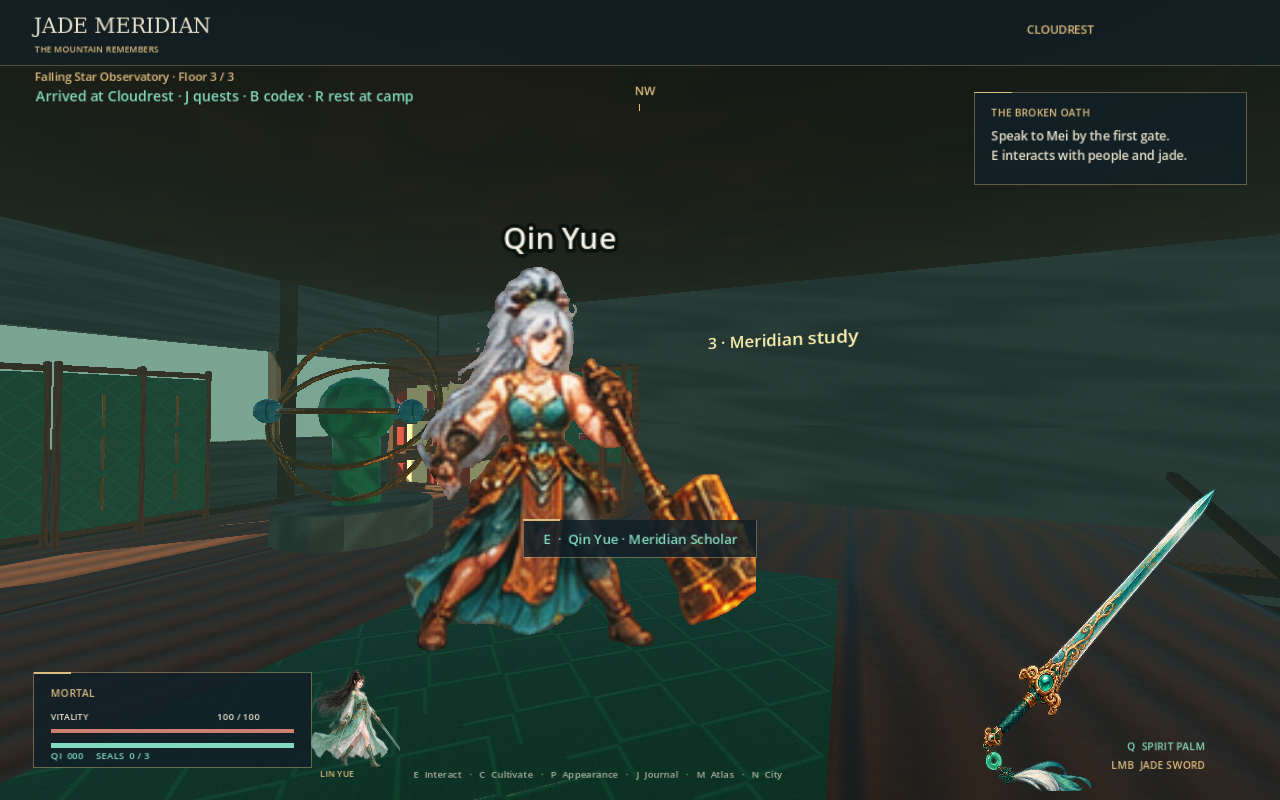
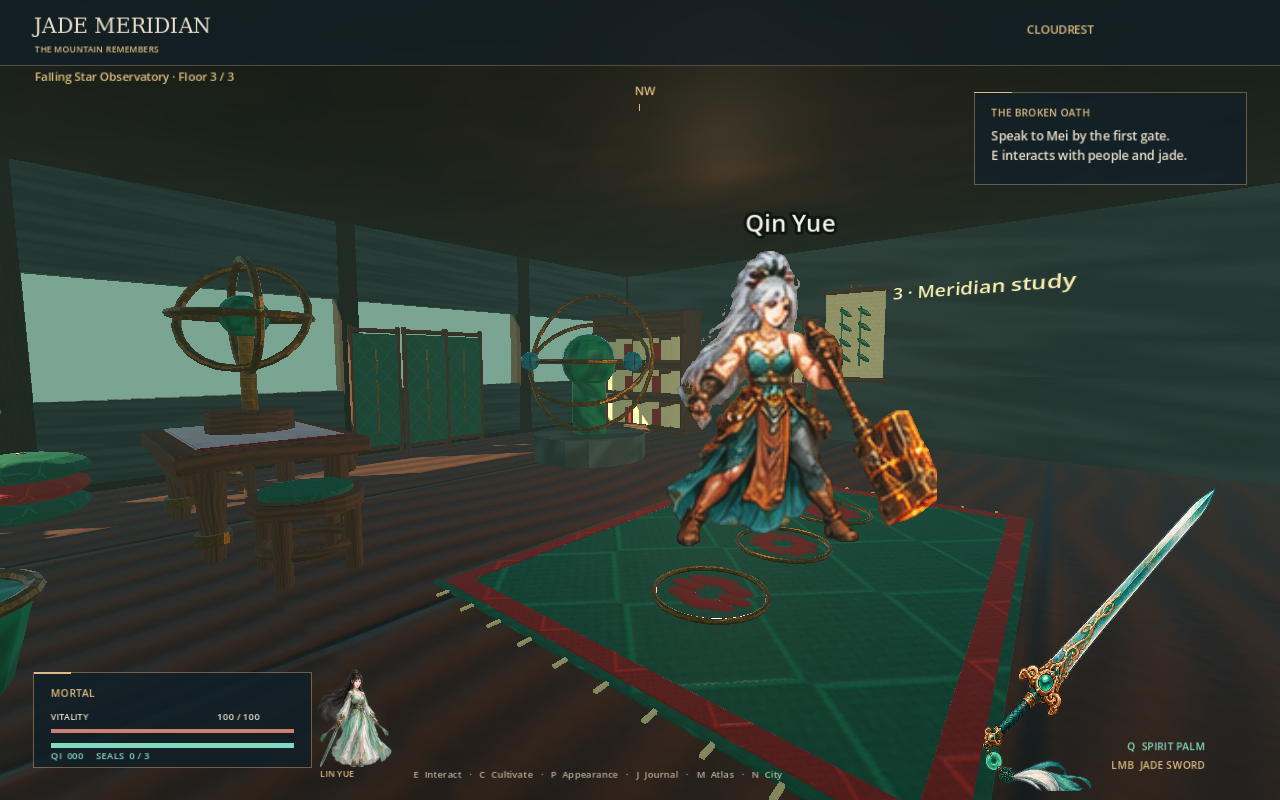
Document textured interiors and capture furnished city rooms

diff --git a/README.md b/README.md
@@ -2,7 +2,7 @@
 
 A first-person 2.5D xianxia game in **Godot 4.7.2 stable**, with a female cultivator, animated 2D characters, textured 3D surroundings, cultivation, and a branching story. The expanded campaign has **100 NPCs, 100 monster species, 1,200 linked quest chapters, and 12 travel regions**.
 
-Cloudrest now also has **12 enterable city buildings, three furnished floors per building, and 40 additional named residents**. Walk south through the valley camp gate to explore Lantern Avenue. Press **N** for the searchable city directory and entrance markers.
+Cloudrest now also has **12 enterable city buildings, three furnished floors per building, and 40 additional named residents**. The interiors contain **653 placements of 40 new textured Blender GLBs**. Walk south through the valley camp gate to explore Lantern Avenue. Press **N** for the searchable city directory and entrance markers.
 
 ![Cloudrest's walkable city district](docs/screenshots/city.png)
 
@@ -62,11 +62,14 @@ Regions share the modular valley layout, with different inhabitants, lighting pa
 
 ## Cloudrest city
 
-The city contains an inn, clinic, teahouse, forge, tailor, archive, talisman hall, guildhouse, observatory, bathhouse, bell house, and courthouse. All twelve buildings have open ground-floor entrances and two physical staircases connecting three floors. Interiors include beds, shelves, worktables, books, forge equipment, baths, instruments, and bells. A resident lives on every floor, with four more people along the avenue.
+The city contains an inn, clinic, teahouse, forge, tailor, archive, talisman hall, guildhouse, observatory, bathhouse, bell house, and courthouse. All twelve buildings have open ground-floor entrances and two physical staircases connecting three floors. Each floor has at least **16 textured GLB props**: carved furniture, brocade beds, medicine drawers, a working-room loom, weapon racks, scrolls, bath basins, instruments, bells, and offerings. Rugs, hanging lanterns, bamboo scrolls, cushions, and bonsai finish the rooms. A resident lives on every floor, with four more people along the avenue.
+
+The new models were generated with **headless Blender 4.3.2** in the current environment. Twelve material families use **36 original 256×256 albedo, roughness, and normal maps**, embedded in the GLBs; floors and plaster also use those detailed surfaces. Shared scene resources and meshes joined by material limit duplicate assets and draw calls. Furniture collisions leave the entrance, residents, and staircase routes accessible.
 
 Press E near any city resident, then 1 for their authored personal story or 2 for advice or a service. Services include healing, rest, tea, tailoring, cultivation, chapter reading, and travel planning. City hospitality restores resources without granting repeatable qi; camp-rest chapters still require the valley camp. The 40 city residents reuse 40 distinct existing high-resolution character designs. Their local dialogue is separate from the existing 100 campaign authors and their chapter chains.
 
 ![A resident on the observatory's third floor](docs/screenshots/city-upper-floor.png)
+![The furnished bathhouse](docs/screenshots/city-bathhouse.png)
 ![The searchable city directory](docs/screenshots/city-directory.png)
 
 See [the city layout and verification](docs/CITY.md) for all addresses and floor names.
@@ -75,11 +78,14 @@ See [the city layout and verification](docs/CITY.md) for all addresses and floor
 
 | Library | Included | Source |
 | --- | ---: | --- |
-| Textured world models | **1,061 distinct GLBs + 1,061 texture PNGs** | Headless Blender: original 1,024 variants, 36 regional landmarks, and one camp beacon |
+| Textured world and landmark models | **1,061 distinct GLBs + 1,061 texture PNGs** | Headless Blender: original 1,024 variants, 36 regional landmarks, and one camp beacon |
+| Textured city interiors | **40 additional GLBs + 36 PBR texture PNGs** | Headless Blender: 653 placements across 36 floors; twelve shared material families |
 | Animation resources | **2,512 AtlasTexture frames** | Original 1,536, 960 expansion frames, and 16 Lin Ning animation poses |
 | New live characters | **100 NPCs + 100 monsters** | Four authored poses per character; 24 spare character designs also included |
 | Heroine appearances | **16 combinations × 4 new poses** | Dedicated generated atlas, plus four weapon sprites |
 | Audio | **113 WAV clips** | Seven synthesized music/effects, six original voices, 100 new NPC greetings |
+
+The complete model library contains **1,101 distinct GLBs**. Godot's extracted copies of embedded textures are excluded from source-art counts.
 
 The image tool returned **1,254 × 1,254** native sheets. New 8×8 sheets provide roughly **155 × 155** frame regions, twice the original 16×16 frame dimensions. A requested 4,096-pixel sheet was not returned; the source images were not upscaled. Frame resources share source PNGs. The number of frames is not a count of separately generated PNG files. Generic eSpeak NG voices provide spoken greetings, not full narration of every chapter.
 
@@ -92,13 +98,15 @@ python3 -m pip install -r tools/requirements.txt
 bash tools/check.sh
 ```
 
-Validation checks all model geometry/embedded textures, image hashes and source rectangles, audio, narrative word counts, lore uniqueness, and quest links. Godot imports the project, runs the world, checks both endings and save migration, replays all 1,200 chains, visits all twelve regions, walks every city doorway and both staircases, interacts with all 40 city residents, and verifies a packaged PCK includes campaign and city JSON. The audit replays **330 checks**; **327 failed on baseline `4c6493c`**, including repeated manifestations of shared defects. The report does not label these as 327 independent root causes.
+Validation checks all model geometry/embedded textures, image hashes and source rectangles, audio, narrative word counts, lore uniqueness, and quest links. The interior validator also checks every room's prop bounds, ceiling height, and clear approaches. Godot imports all 40 interior models with their PBR maps, runs **526 city checks**, checks both endings and save migration, replays all 1,200 chains, visits all twelve regions, walks every city doorway and both staircases, interacts with all 40 city residents, and verifies a packaged PCK includes the city assets and JSON. The audit replays **330 checks**; **327 failed on baseline `4c6493c`**, including repeated manifestations of shared defects. The report does not label these as 327 independent root causes.
 
 To reproduce generated data and Blender assets:
 
 ```bash
 python3 tools/compile_campaign.py
 blender --background --factory-startup --python tools/generate_landmarks.py
+blender --background --factory-startup --python tools/generate_interiors.py -- --batch all
+python3 tools/validate_interiors.py --expect-count 40
 python3 tools/register_hires.py
 python3 tools/generate_campaign_voices.py  # requires eSpeak NG
 ```

diff --git a/docs/CITY.md b/docs/CITY.md
@@ -26,16 +26,45 @@ A resident occupies every floor. Gate guide Tao Jun, market gardener Min Qiu, fe
 Their short personal accounts are authored in `content/city/cloudrest.json`. City residents reuse 40 distinct existing high-resolution NPC sprite designs with four animated poses each. The expansion adds no new source character artwork or generated animation frames. The campaign's 100 authors and 1,200 chapter chains remain separately available. City rest restores vitality and stamina; it does not advance an objective requiring rest at the valley camp or generate qi rewards.
 
 ![The inn's ground-floor resident](screenshots/city-interior.png)
+![Brocade curtains and a furnished guest room](screenshots/city-bedroom.png)
 ![The observatory's third-floor resident](screenshots/city-upper-floor.png)
 ![A resident's personal account](screenshots/city-dialogue.png)
 
-The district is assembled from timber, plaster, framed windows, raised eaves, lanterns, shop banners, and furnishings, using Godot geometry and existing world textures. Shared meshes and materials keep the modular architecture reproducible. It is a playable city prototype with a regular street plan and themed furnishings; residents stay at their addresses rather than following daily schedules.
+The district's architecture is assembled from timber, plaster, framed windows, raised eaves, lanterns, and shop banners using Godot geometry. Its interiors now use **40 original GLBs generated with headless Blender 4.3.2**, placed **653 times across all 36 floors**. Each floor contains at least **16 models**. The room layouts are authored in `content/city/interiors.json`; `scripts/interiors.gd` caches each imported scene and uses the manifest's model bounds for furniture collision. Meshes are joined by material in Blender and culled at distance in Godot. The city retains a regular street plan, and residents stay at their addresses rather than following daily schedules.
+
+| Library batch | Distinct GLBs | Furnishings |
+| --- | ---: | --- |
+| Common | 8 | Carved tables and stools, canopy bed, bookcase, chest, floor lantern, flower vase, folding screen |
+| Craft | 16 | Tea set, medicine drawers and tray, forge hearth, anvil, weapon rack, loom, silk rolls, scroll rack, writing desk, ink set, talisman board, incense burner, astrolabe, orrery, star chart |
+| Special | 16 | Bath basin, towel rack, bell, offering altar, court bench, petition box, guild map table, supply crates, hanging lantern, bamboo scroll, patterned rug, cushions, bonsai, crystal array, drum, drying herbs |
+
+Twelve material families use **36 generated 256×256 texture maps**: albedo, roughness, and tangent-space normal maps for walnut, lacquer, jade, brass, ceramic, silk, brocade, parchment, stone, iron, water, and embers. Wood grain, textile weave, ceramic bands, metal engraving, and stone veins provide actual pixel detail. Each GLB embeds its textures, including glTF's packed metallic/roughness map. Floors, ceilings, and plaster also use the source PBR maps. The source PNGs and hash manifest are committed; Godot's extracted copies are ignored.
+
+![The apothecary's drawers and medicine tools](screenshots/city-clinic.png)
+![The forge hearth, anvil, and weapon racks](screenshots/city-forge.png)
+![The silk house loom and cloth bolts](screenshots/city-tailor.png)
+![The archive's scroll racks and writing desk](screenshots/city-archive.png)
+![The guild's map and cargo crates](screenshots/city-guild.png)
+![The bathhouse's basin, linens, and screens](screenshots/city-bathhouse.png)
+![The memorial bell and offering altar](screenshots/city-bell-house.png)
+![The courthouse's bench and petition box](screenshots/city-courthouse.png)
+
+Generate the assets in restartable batches and verify them with:
+
+```bash
+blender --background --factory-startup --python tools/generate_interiors.py -- --batch common
+blender --background --factory-startup --python tools/generate_interiors.py -- --batch craft
+blender --background --factory-startup --python tools/generate_interiors.py -- --batch special
+python3 tools/validate_interiors.py --expect-count 40
+```
+
+The validator checks hashes, distinct GLBs, geometry, UVs, embedded PNGs, all three PBR channels, source-map detail, complete floor coverage, use of every model, room boundaries, ceiling clearance, and open approaches to residents and stairs. See [asset provenance](ASSETS.md) for the source and tool versions.
 
 Stairs use visible wooden treads over continuous ramp colliders so the existing first-person controller can climb without jumping. Upper floor slabs leave the stairwell open. Doors, furniture, glass, walls, and floors have physical collisions. Sight and proximity checks prevent interactions through walls or between floors. Dialogue uses the existing pause behavior.
 
 Save version four allows positions throughout the Cloudrest city, including its upper rooms, and retains version-three regional resource and monster consumption. Versions one through three still migrate. Coordinates outside the world, or city coordinates belonging to another region, are rejected before any journey state changes. Travel disables city geometry and resident collisions and closes the southern gate; returning restores access. Loading and rest retain exactly one instance of each city resident.
 
-`tests/city.gd` performs **448 checks** in the actual engine. It walks through all twelve doors, climbs and descends both staircases in every building, exits onto the street, talks to all 40 residents, selects their stories and services, verifies walls and floors block sight, searches and marks addresses, restores an upper-floor save, migrates a version-three save, and checks regional travel and camp rest. It runs in `tools/check.sh`, alongside the existing campaign, combat, ending, save, and packaged-world suites.
+`tests/city.gd` performs **526 checks** in the actual engine. It verifies all 40 models' imported albedo, roughness, and normal maps and every floor's prop count, walks through all twelve doors, climbs and descends both staircases in every building, exits onto the street, talks to all 40 residents, selects their stories and services, verifies walls and floors block sight, searches and marks addresses, restores an upper-floor save, migrates a version-three save, and checks regional travel and camp rest. It runs in `tools/check.sh`, alongside the existing campaign, combat, ending, save, and packaged-world suites. The packaged smoke test requires all 40 GLB scenes and at least 576 prop placements to load.
 
 The standard `--capture` mode also renders city evidence in CI. For city screenshots alone:
 

diff --git a/docs/ASSETS.md b/docs/ASSETS.md
@@ -6,9 +6,21 @@ The generated art, procedural textures, models, narrative, and original code are
 
 The original `tools/generate_world.py` creates sixteen families × sixty-four seeded variants, totaling **1,024 GLBs and 1,024 32×32 PNG textures**. Families include vegetation, rock, crystals, gates, pavilions, lanterns, bridges, altars, furniture, banners, and ruins. Each model has geometry, materials, and an embedded texture.
 
-The new `tools/generate_landmarks.py` ran in **Blender 5.2.2 LTS**, headlessly. It creates **36 additional GLBs with 36 128×128 textures**, using twelve structural designs and three variations of each: lotus terrace, jade observatory, ferry dock, frost arch, ember forge, ink archive, meteor dais, moonwell, thunder obelisk, dream orchard, bone ossuary, dawn sanctuary. Regional structures use different assemblies of mesh geometry. Their manifests contain model and texture SHA-256 hashes. The complete library therefore has **1,060 distinct GLBs and 1,060 authored texture PNGs**. Godot's extracted embedded texture copies are ignored and are not counted as new artwork.
+The new `tools/generate_landmarks.py` ran in **Blender 5.2.2 LTS**, headlessly. It creates **36 additional GLBs with 36 128×128 textures**, using twelve structural designs and three variations of each: lotus terrace, jade observatory, ferry dock, frost arch, ember forge, ink archive, meteor dais, moonwell, thunder obelisk, dream orchard, bone ossuary, dawn sanctuary. Regional structures use different assemblies of mesh geometry. Their manifests contain model and texture SHA-256 hashes. These two batches contain **1,060 distinct GLBs and 1,060 authored texture PNGs**. Godot's extracted embedded texture copies are ignored and are not counted as new artwork.
 
 Runtime caches instantiate selected resources. Physical props have colliders; trees use trunk cylinders, and structures use component boxes. Distant mountain silhouettes remain scenery outside the playable area.
+
+## Textured city interiors
+
+`tools/generate_interiors.py` ran with **Blender 4.3.2, in background mode**, to create **40 original GLBs**. This is the Blender version installed in the current generation environment; the earlier landmark and camp batches used 5.2.2 LTS. The interior library is approximately **44.6 MiB** of GLBs and **2.9 MiB** of shared source texture PNGs. Its common, craft, and special batches can be regenerated separately, with completed batches retained in the manifest.
+
+The models include carved furniture, a curtained canopy bed, filled bookshelves and scroll racks, an apothecary's 25 drawers, tea and medicine tools, a coal hearth and anvil, swords, a threaded loom, silk rolls, writing implements, talisman boards, armillary instruments, a water-filled bath basin, hanging bells and drums, offerings, map routes, court furnishings, and room accents. They use beveled mesh components, meter units, floor origins, UV mapping, and meshes joined by material. The **119,384 triangles** are the sum of the distinct source models, not the count of all repeated instances in the world.
+
+Twelve deterministic material patterns create **36 original 256×256 PNGs**: albedo, roughness, and tangent-space normal maps for each material. Pixels are generated directly in Blender Python from wood grain, textile weave, ceramic bands, jade/stone veins, and engraved metal patterns. The normals derive from the same surface-height patterns. Every model material has all three texture channels. The GLB exporter embeds albedo, normals, and packed metallic/roughness images; no external downloads or texture-only recolored model variants are used for this batch.
+
+`assets/interiors/manifest.json` records the actual Blender version, generator path, SHA-256 hashes, and each model's bounding box in Godot coordinates. The 36 source maps live in `assets/interiors/textures/`. Godot's root-level extracted embedded texture copies remain ignored. The architecture also uses the walnut and stone maps, while the room rugs use their own detailed GLB meshes. Together with the original library, landmarks, and camp beacon, the repository now contains **1,101 distinct GLBs and 1,097 source texture PNGs**.
+
+There are **653 GLB placements across 36 city floors**, at least sixteen per floor. Layout validation checks room bounds and clear routes; the actual engine checks imported materials, entrances, staircases, and interactions with every resident. The packaged smoke test loads all forty scene resources. [CITY.md](CITY.md) documents the room themes, regeneration commands, and real-engine screenshots.
 
 ## ChatGPT image generation
 
@@ -32,7 +44,7 @@ The total is **113 WAVs**: seven music/effect clips and 106 spoken clips. Every 
 
 ## Screenshots
 
-`docs/screenshots/` contains real Godot 4.7 renders using Mesa software OpenGL under Xvfb. `--capture` records the title, valley, shrine, cultivation, appearance, academy, atlas, bestiary, witness, and chapter reader. CI regenerates and uploads screenshots, together with the audit results. These screenshots are engine captures, not image-generated mockups.
+`docs/screenshots/` contains real Godot 4.7 renders using Mesa software OpenGL under Xvfb or a headless Xorg display. `--capture` records the title, valley, shrine, cultivation, appearance, academy, atlas, bestiary, witness, and chapter reader, followed by fourteen city views covering the street, furnished rooms, dialogue, and directory. CI regenerates and uploads screenshots, together with the audit results. These screenshots are engine captures, not image-generated mockups.
 
 ## Current animation and camp revision
 
@@ -40,4 +52,4 @@ The latest verified toolchain is Godot 4.7.2 and Blender 5.2.2 LTS. A new headle
 
 One newly generated 4×4 Lin Ning sheet adds 16 distinct AtlasTexture poses, bringing registered frame resources to 2,512. Its 309.5×309.5 frame regions double her previous 154.75×154.75 regions. This is a pilot for one existing NPC; the full sprite-library upgrade and 9,984 additional requested frames remain pending. No rendering-FPS improvement is claimed. See [revision evidence and the Mermaid flow](REVISION.md).
 
-All eleven current screenshots were regenerated in the real Godot 4.7.2 renderer, including the new camp view.
+The eleven earlier revision screenshots were regenerated in the real Godot 4.7.2 renderer, including the camp view. The city furnishing update adds fourteen city screenshots captured in the same renderer.
